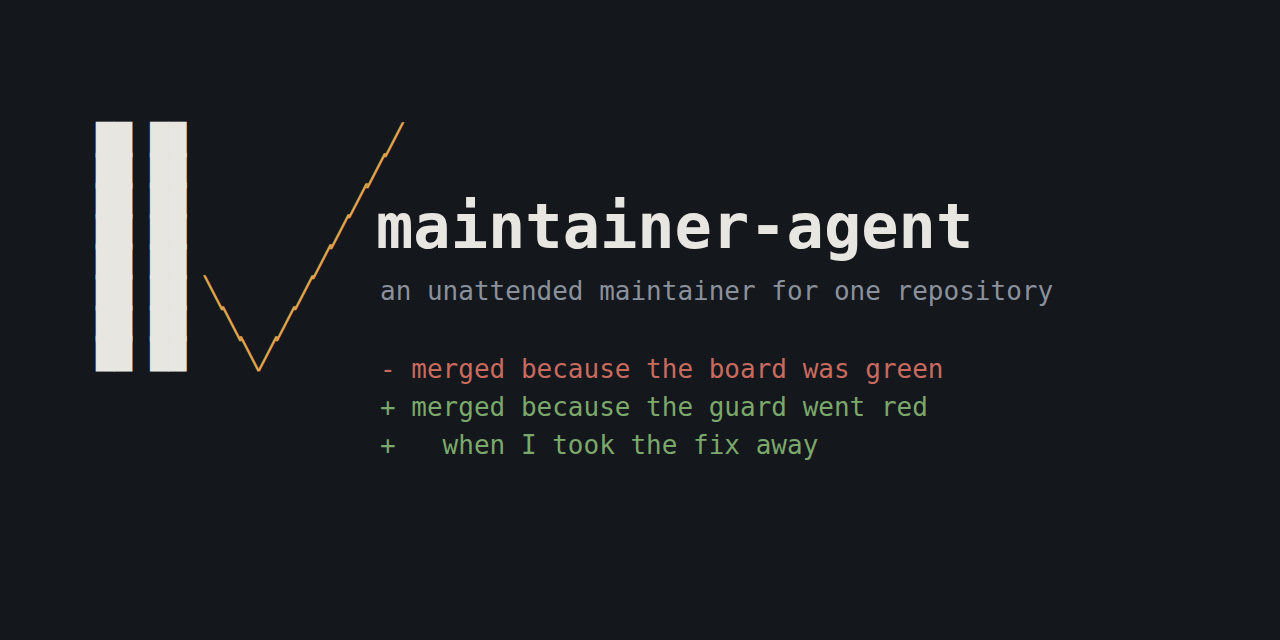
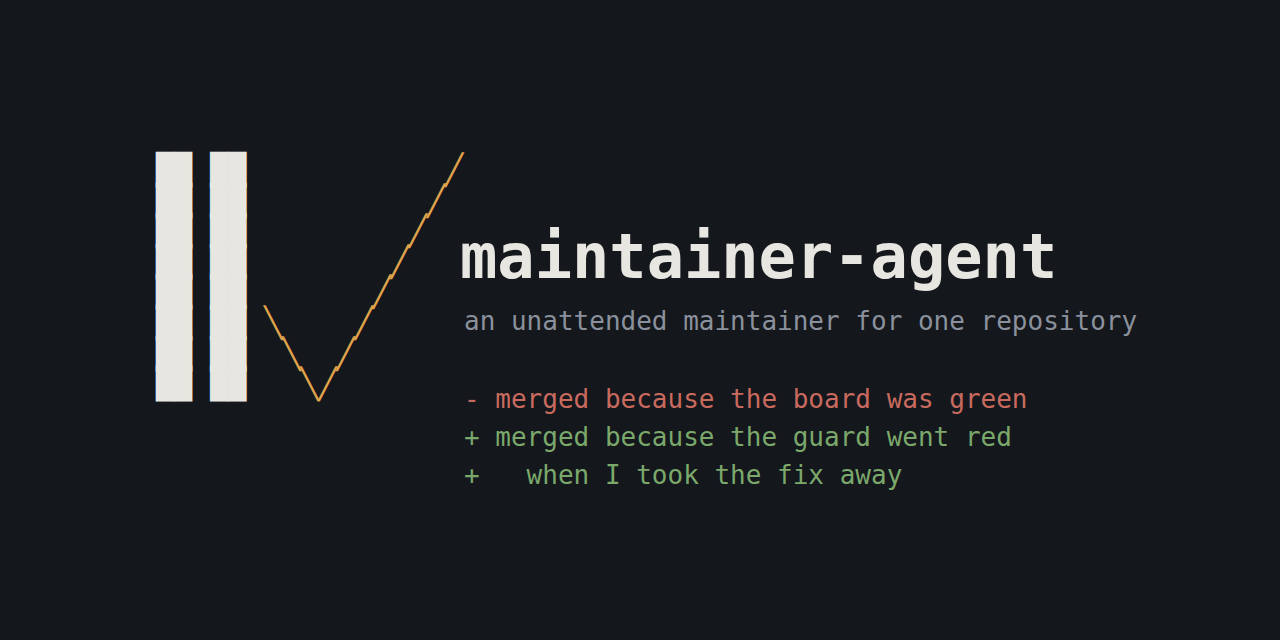
Center the mark in the README and keep the social preview off the crop line
The README showed the mark as an 84px icon floated right; it now leads the
page at 160px. assets/README.md said every pixel of the social preview sat
130px from an edge, but the bars started at x 95 and the top at y 121, and
the check's tip crowded the title. Content now spans x 155..1136,
y 151..489, and run-tests.sh decodes the PNG with zlib alone and fails if
anything moves inside that 130px margin (verified red on the old PNG).

Claude-Session: https://claude.ai/code/session_0127uo7T2bwHTsjd4tWGhL8U

diff --git a/assets/README.md b/assets/README.md
@@ -14,7 +14,9 @@ the same silhouette.
 
 `social-preview.png` is 1280x640, which is what GitHub recommends (minimum
 640x320, maximum 1MB), cropped to 2:1. Every pixel that matters sits at least
-130px from an edge, well clear of the 50px GitHub warns about.
+130px from an edge, clear of the 80px border in GitHub's
+repository card template. `tests/run-tests.sh` decodes the PNG and fails if
+anything drifts inside that margin.
 
 Setting it is a **web UI step and has no API**: Settings, General, Social
 preview, Upload an image. Regenerate the PNG from the SVG rather than editing it:

diff --git a/README.md b/README.md
@@ -1,4 +1,6 @@
-<img src="assets/logo.svg" width="84" align="right" alt="">
+<p align="center">
+  <img src="assets/logo.svg" width="160" alt="maintainer-agent mark: two bars and a check, drawn in characters">
+</p>
 
 # maintainer-agent
 
